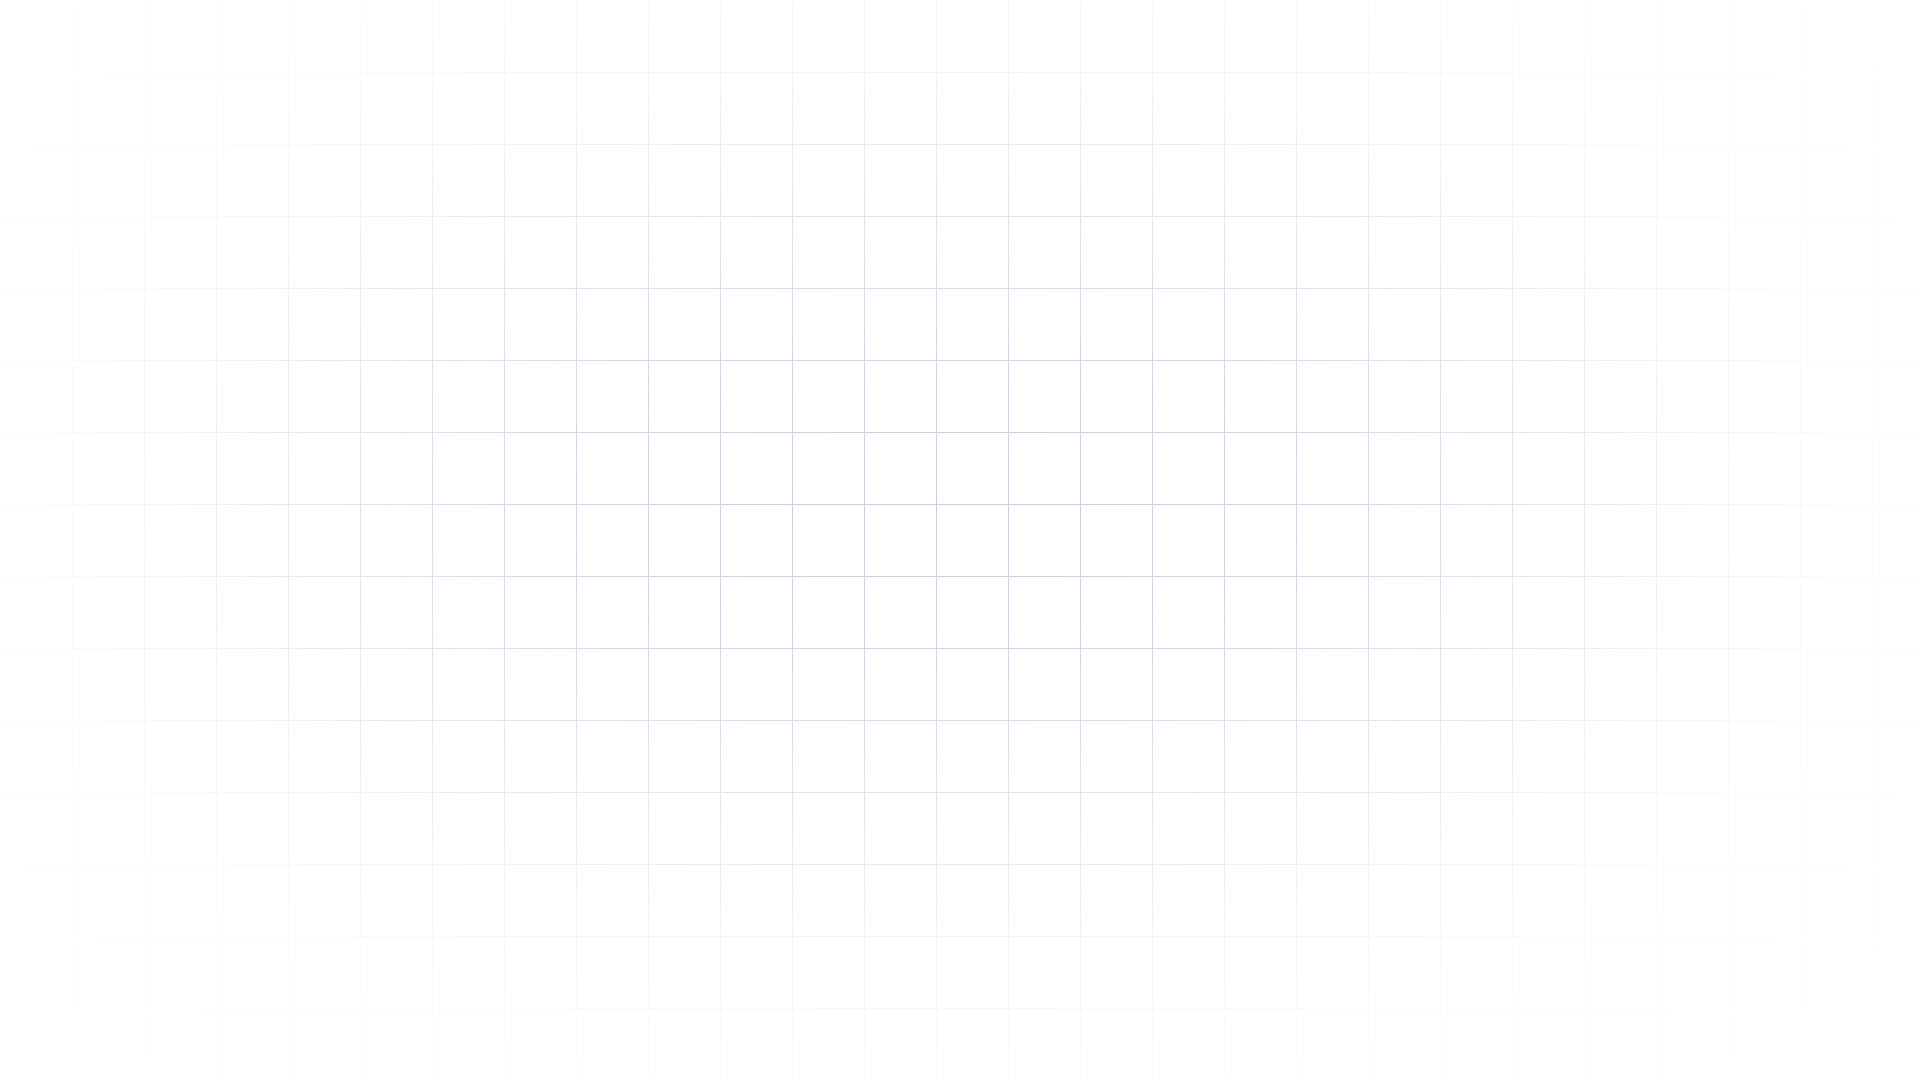
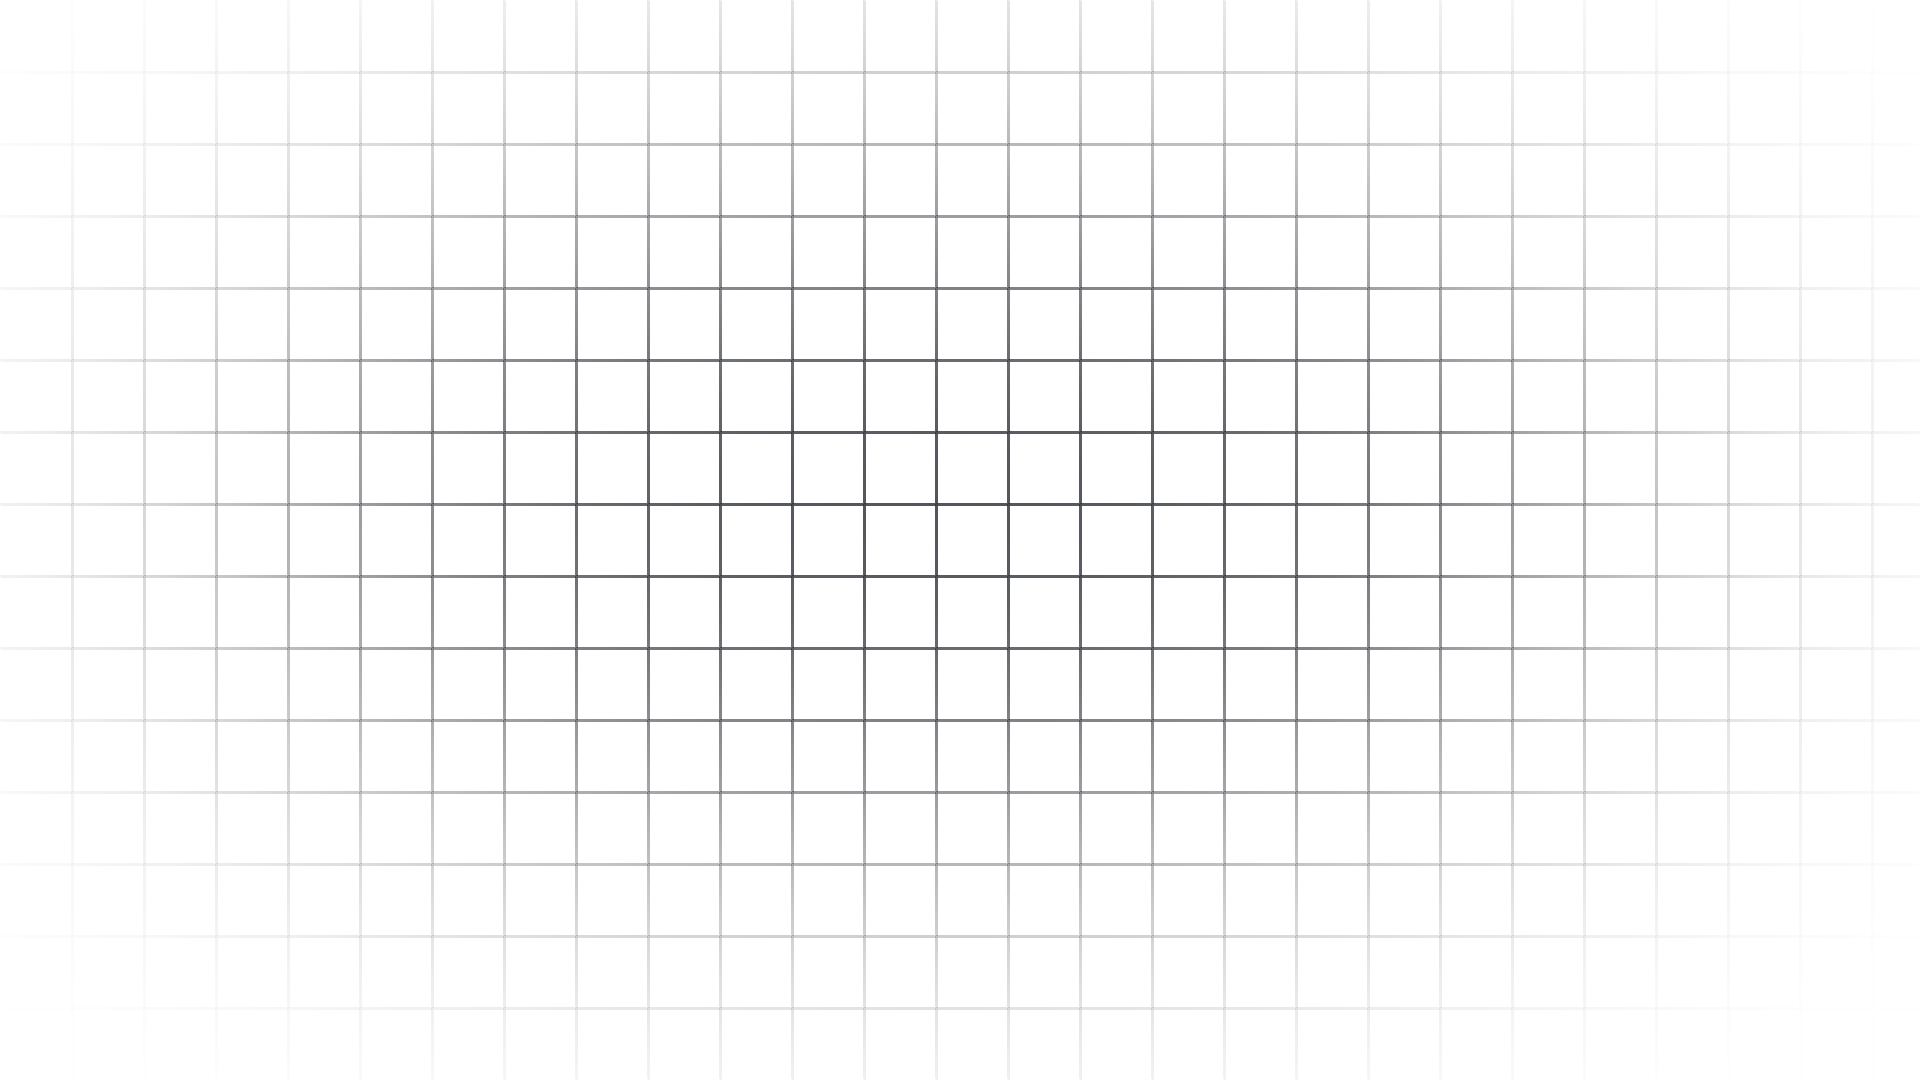
u

diff --git a/src/app/coding/page.tsx b/src/app/coding/page.tsx
@@ -1,10 +1,11 @@
 "use client";
 
-import React, { useEffect, useRef, useState } from "react"
+import React, { useEffect, useState } from "react"
 import grid from "../../../public/image/grid.png"
-import clsx from "clsx";
-import Spinner from "@/components/spinner";
 import Loading from "@/components/loading_screen";
+import caco from "../../../public/image/CascadesAcademyLogo.png"
+import swell from "../../../public/image/SwellAIlogo.svg"
+import dhs from "../../../public/image/DHSLogo.png"
 
 export default function Coding() {
 
@@ -44,21 +45,45 @@ export default function Coding() {
     }
 
     return (
-        <div className="block">
-            <div className="block h-[700px]">
-                <div className="flex w-full h-full justify-center bg-gray-400">
-                    <img src={grid.src} style={{mixBlendMode: "screen"}} className="absolute h-[700px]"/>
-                    {
-                        IDENodeList()
-                    }
+        <>
+            <div className="block">
+                <div className="block h-[700px]">
+                    <div className="flex w-full h-full justify-center bg-gray-50">
+                        <img src={grid.src} className="absolute h-[700px] opacity-10"/>
+                        {
+                            IDENodeList()
+                        }
+                    </div>
+                </div>
+                <div className="flex w-full h-auto min-h-64 bg-gray-800 text-white">
+                    <div className="flex w-auto p-8">
+                        <p className="text-7xl font-bold">Internships and Jobs</p>
+                    </div>
+                    <div className="block w-full items-center">
+                        <div className="flex w-auto space-x-2 m-8">
+                            <img src={swell.src} className="w-12 h-12 cursor-pointer" onClick={() => {window.open("https://swellai.com", "_blank")}}/>
+                            <div className="flex">
+                                SwellAI is a company that sells a service that specializes in content repurposing. I got a paid internship there in January of 2024 and got hands-on experience in industry-standard full-stack web development for a paid product. I can use this experience to promote, communnicate, and monetize anything I create using the internet.
+                            </div>
+                        </div>
+                        <div className="flex w-auto space-x-2 m-8 mt-0">
+                            <img src={dhs.src} className="w-10 h-10 m-1 cursor-pointer shadow" onClick={() => {window.open("https://derm-health.com", "_blank")}}/>
+                            <div className="flex">
+                                At my school, Cascades Academy, all juniors apply for and participate in an internship for the whole school year. I was lucky enough to get a coding internship at a local company called Dermatology Health Specialists. I worked with the lead surgeon and CEO, Dr. Oliver Wisco, to create a customizable patient database and analytics tool. I taught myself how to create advanced logic using ReactJS, and navigated HIPAA compliance. It took the whole year, and the result is very impressive.
+                            </div>
+                        </div>
+                        <div className="flex w-auto space-x-2 m-8 mt-0">
+                            <img src={caco.src} className="w-10 h-10 m-1 cursor-pointer shadow" onClick={() => {window.open("https://www.cascadesacademy.org/community/camp-create", "_blank")}}/>
+                            <div className="flex">
+                                I had an opportunity, after volunteering as a Counselor in Training for a year, to become a paid Junior Counselor for Cascades Academy's Camp Create. It was my job to assist the counselors in giving the 2nd-5th grade kids a fun time at camp, and my responsibilities included keeping the kids on task, cleaning, safety, and I also led my own one-hour curriculum. I learned the importance of helping my communnity, and how to work effectively with kids.
+                            </div>
+                        </div>
+                    </div>
+                </div>
+                <div className="bg-white w-full h-[150vh]">
+                        <Loading isLoading={isLoading}/>
                 </div>
             </div>
-            <div className="block w-full h-[150vh] bg-gray-800 text-white">
-                
-            </div>
-            <div className="bg-white w-full h-[150vh]">
-                    <Loading isLoading={isLoading}/>
-            </div>
-        </div>
+        </>
     )
 }
